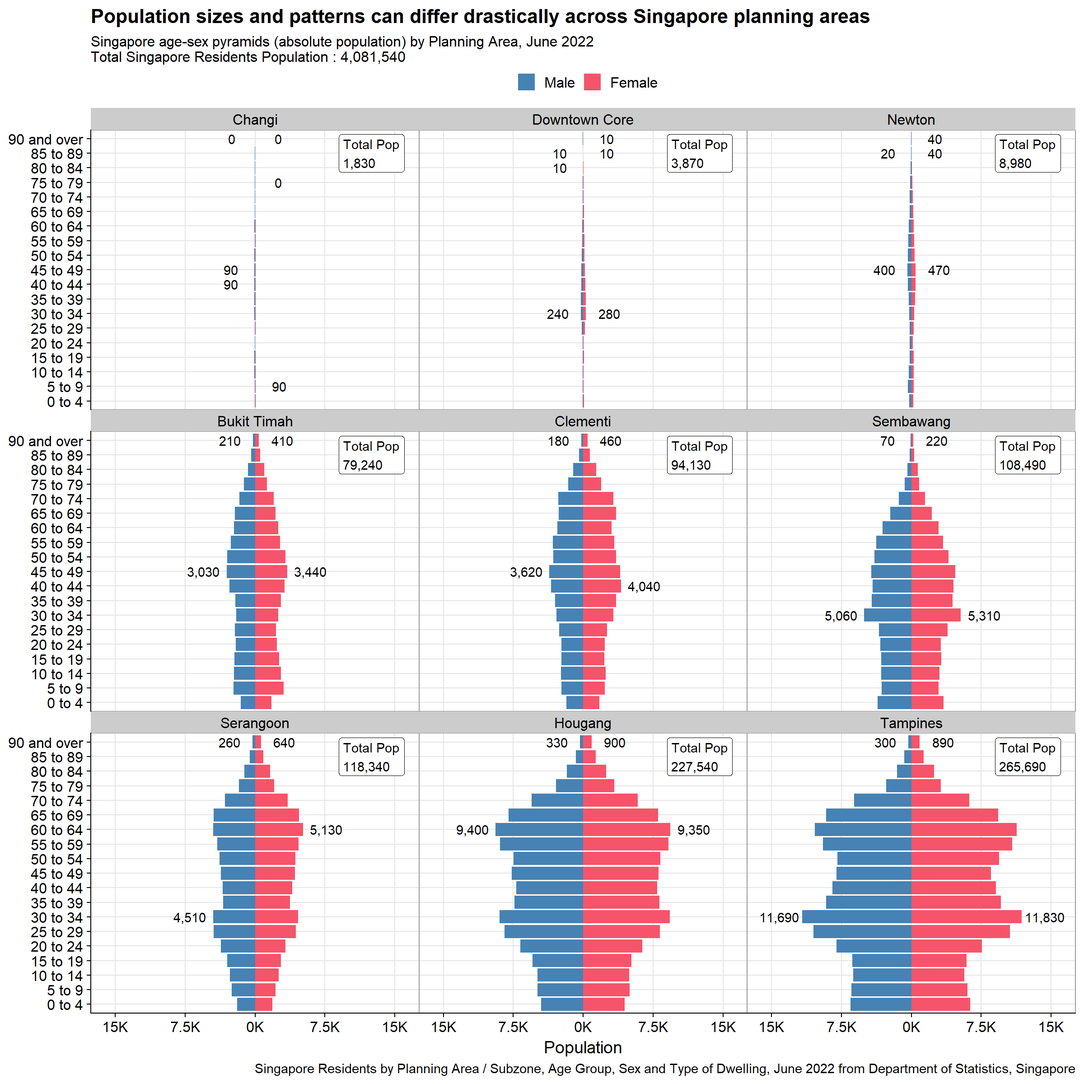
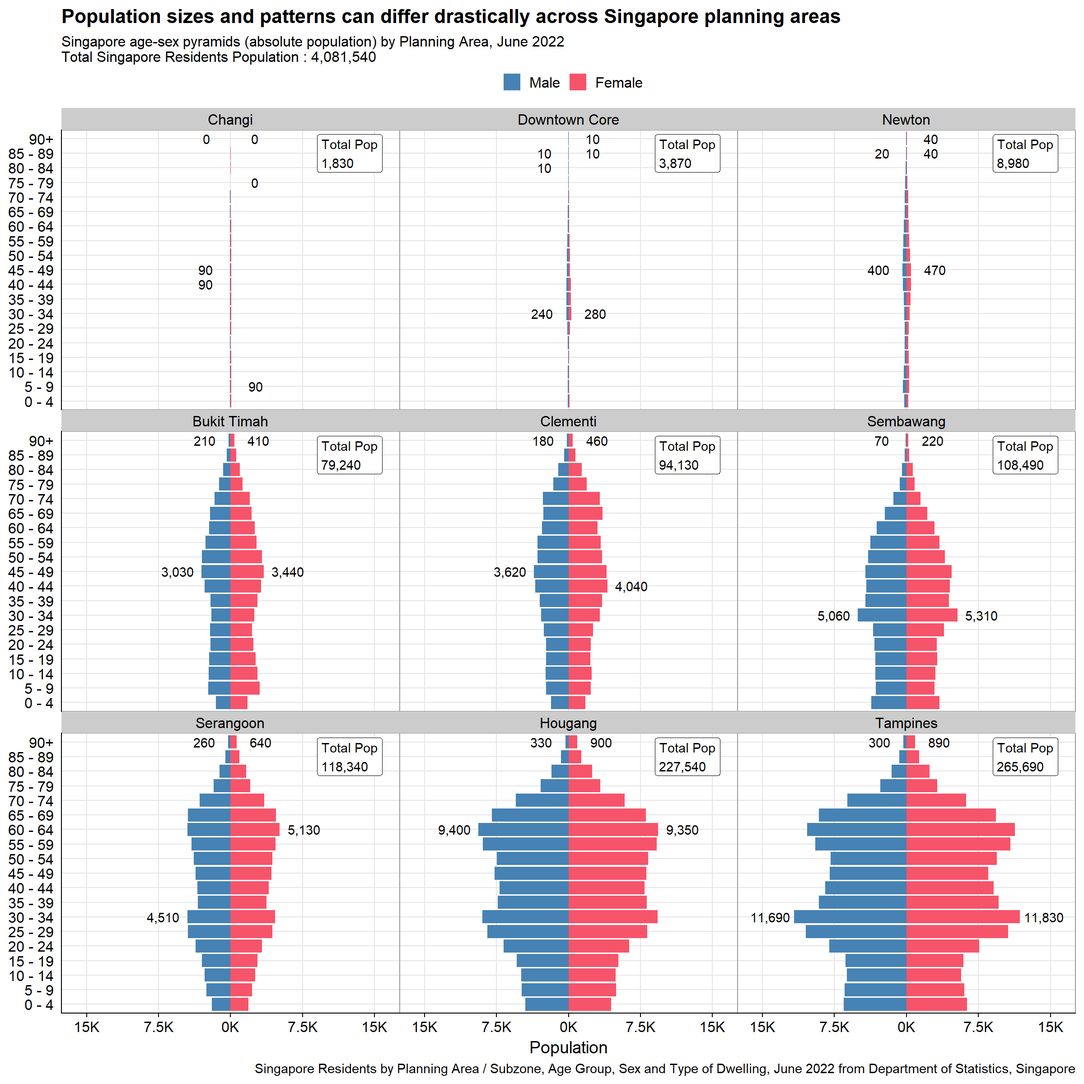
Commit after Take-home Exercise 2 draft2

diff --git a/_site/Take-home_Ex/Take-home_Ex02/Take-home_Ex02.html b/_site/Take-home_Ex/Take-home_Ex02/Take-home_Ex02.html
@@ -300,7 +300,7 @@ code span.wa { color: #60a0b0; font-weight: bold; font-style: italic; } /* Warni
 <li><p>Clear planning area labels for each population pyramid.</p></li>
 <li><p>Uniform white background gives a clean look.</p></li>
 <li><p>Soft grid lines are not distracting.</p></li>
-<li><p>Y-axis labels are not very easy to read due to presence of “_”.</p></li>
+<li><p>Y-axis labels are not very easy to read due to presence of ‘_’.</p></li>
 </ul>
 <section id="section-2" class="level6">
 <h6 class="anchored" data-anchor-id="section-2"></h6>
@@ -349,7 +349,8 @@ code span.wa { color: #60a0b0; font-weight: bold; font-style: italic; } /* Warni
 <ul>
 <li><p>Group the original data by planning area (PA), age group (AG), and gender (Sex) using <code>dplyr::group_by</code> and <code>dplyr::summarise</code>, deriving new variable called <code>sum_pop</code>, which is the sum of population grouped by the three variables mentioned.</p></li>
 <li><p>Convert Males population to negative to reverse the bar chart axis using <code>dplyr::mutate</code> and <code>ifelse</code>.</p></li>
-<li><p>Derive variables <code>min_pop</code> and <code>max_pop</code> to determine the min and max male &amp; female population values for each planning area (PA) across age group (AG). This will be used in conjunction with <code>signal</code> below for data labeling purpose.</p></li>
+<li><p>Eliminate the ‘_’, ‘to’, ‘and over’ in age group (<code>AG</code>) using <code>dplyr::mutate</code> and <code>gsub</code>.</p></li>
+<li><p>Derive variables <code>min_pop</code> and <code>max_pop</code> to determine the min and max male &amp; female population values for each planning area (<code>PA</code>) across age group (<code>AG</code>). This will be used in conjunction with <code>signal</code> below for data labeling purpose.</p></li>
 <li><p>Derive new variables to calculate population proportion : sum of population by PA (<code>sum_pop_pa</code>), sum of population by age and sex (<code>sum_pop_total</code>), sum of total Singapore population (<code>sum_pop_total_sg</code>)</p></li>
 <li><p>Using <code>left_join</code> to create new clean tibble called <code>sgpop_clean</code> which will be used as final dataset for plotting</p></li>
 </ul>
@@ -359,40 +360,42 @@ code span.wa { color: #60a0b0; font-weight: bold; font-style: italic; } /* Warni
 <div class="sourceCode cell-code" id="cb2"><pre class="sourceCode r code-with-copy"><code class="sourceCode r"><span id="cb2-1"><a href="#cb2-1" aria-hidden="true" tabindex="-1"></a><span class="co">#Data Cleaning</span></span>
 <span id="cb2-2"><a href="#cb2-2" aria-hidden="true" tabindex="-1"></a><span class="co">#sgpop_group groups total population by PA, AG, and Sex to create base data for population pyramid</span></span>
 <span id="cb2-3"><a href="#cb2-3" aria-hidden="true" tabindex="-1"></a>sgpop_group <span class="ot">&lt;-</span> sgpop <span class="sc">|&gt;</span> </span>
-<span id="cb2-4"><a href="#cb2-4" aria-hidden="true" tabindex="-1"></a>  <span class="fu">mutate</span>(<span class="at">AG =</span> <span class="fu">gsub</span>(<span class="st">'_'</span>,<span class="st">' '</span>, AG),</span>
-<span id="cb2-5"><a href="#cb2-5" aria-hidden="true" tabindex="-1"></a>         <span class="at">Pop =</span> <span class="fu">ifelse</span>(Sex <span class="sc">==</span> <span class="st">"Males"</span>, Pop<span class="sc">*</span>(<span class="sc">-</span><span class="dv">1</span>), Pop)) <span class="sc">|&gt;</span></span>
-<span id="cb2-6"><a href="#cb2-6" aria-hidden="true" tabindex="-1"></a>  <span class="fu">group_by</span>(PA, AG, Sex) <span class="sc">|&gt;</span> </span>
-<span id="cb2-7"><a href="#cb2-7" aria-hidden="true" tabindex="-1"></a>  <span class="fu">summarise</span>(<span class="at">sum_pop =</span> <span class="fu">sum</span>(Pop)) </span>
-<span id="cb2-8"><a href="#cb2-8" aria-hidden="true" tabindex="-1"></a></span>
-<span id="cb2-9"><a href="#cb2-9" aria-hidden="true" tabindex="-1"></a><span class="co">#sgpop_max_min creates summary parameters for max, min, and sum by grouping them on PA and Sex. AG is not included since we want to find total population across age group</span></span>
-<span id="cb2-10"><a href="#cb2-10" aria-hidden="true" tabindex="-1"></a>sgpop_max_min <span class="ot">&lt;-</span> sgpop_group <span class="sc">|&gt;</span> </span>
-<span id="cb2-11"><a href="#cb2-11" aria-hidden="true" tabindex="-1"></a>  <span class="fu">group_by</span>(PA, Sex) <span class="sc">|&gt;</span> </span>
-<span id="cb2-12"><a href="#cb2-12" aria-hidden="true" tabindex="-1"></a>  <span class="fu">summarise</span>(<span class="at">max_pop =</span> <span class="fu">max</span>(<span class="fu">abs</span>(sum_pop)),</span>
-<span id="cb2-13"><a href="#cb2-13" aria-hidden="true" tabindex="-1"></a>            <span class="at">min_pop =</span> <span class="fu">min</span>(<span class="fu">abs</span>(sum_pop)))</span>
-<span id="cb2-14"><a href="#cb2-14" aria-hidden="true" tabindex="-1"></a></span>
-<span id="cb2-15"><a href="#cb2-15" aria-hidden="true" tabindex="-1"></a><span class="co">#sgpop_sum sums up the total population by planning area. This will be used to create proportion population per planning area</span></span>
-<span id="cb2-16"><a href="#cb2-16" aria-hidden="true" tabindex="-1"></a>sgpop_sum <span class="ot">&lt;-</span> sgpop_group <span class="sc">|&gt;</span> </span>
-<span id="cb2-17"><a href="#cb2-17" aria-hidden="true" tabindex="-1"></a>  <span class="fu">group_by</span> (PA) <span class="sc">|&gt;</span> </span>
-<span id="cb2-18"><a href="#cb2-18" aria-hidden="true" tabindex="-1"></a>  <span class="fu">summarise</span>(<span class="at">sum_pop_pa =</span> <span class="fu">sum</span>(<span class="fu">abs</span>(sum_pop)))</span>
-<span id="cb2-19"><a href="#cb2-19" aria-hidden="true" tabindex="-1"></a></span>
-<span id="cb2-20"><a href="#cb2-20" aria-hidden="true" tabindex="-1"></a><span class="co">#sgpop_total groups total population by AG and Sex to create base data for total Singapore population (across different PA)</span></span>
-<span id="cb2-21"><a href="#cb2-21" aria-hidden="true" tabindex="-1"></a>sgpop_total <span class="ot">&lt;-</span> sgpop <span class="sc">|&gt;</span></span>
-<span id="cb2-22"><a href="#cb2-22" aria-hidden="true" tabindex="-1"></a>  <span class="fu">mutate</span>(<span class="at">AG =</span> <span class="fu">gsub</span>(<span class="st">'_'</span>,<span class="st">' '</span>, AG),</span>
-<span id="cb2-23"><a href="#cb2-23" aria-hidden="true" tabindex="-1"></a>         <span class="at">Pop =</span> <span class="fu">ifelse</span>(Sex <span class="sc">==</span> <span class="st">"Males"</span>, Pop<span class="sc">*</span>(<span class="sc">-</span><span class="dv">1</span>), Pop)) <span class="sc">|&gt;</span></span>
-<span id="cb2-24"><a href="#cb2-24" aria-hidden="true" tabindex="-1"></a>  <span class="fu">group_by</span>(AG, Sex) <span class="sc">|&gt;</span> </span>
-<span id="cb2-25"><a href="#cb2-25" aria-hidden="true" tabindex="-1"></a>  <span class="fu">summarise</span>(<span class="at">sum_pop_total =</span> <span class="fu">sum</span>(Pop)) </span>
-<span id="cb2-26"><a href="#cb2-26" aria-hidden="true" tabindex="-1"></a></span>
-<span id="cb2-27"><a href="#cb2-27" aria-hidden="true" tabindex="-1"></a><span class="co">#sgpop_total_summ sums total Singapore population. This will be used to create Singapore proportion population for reference</span></span>
-<span id="cb2-28"><a href="#cb2-28" aria-hidden="true" tabindex="-1"></a>sgpop_total_summ <span class="ot">&lt;-</span> sgpop_total <span class="sc">|&gt;</span> </span>
-<span id="cb2-29"><a href="#cb2-29" aria-hidden="true" tabindex="-1"></a>  <span class="fu">group_by</span> (Sex) <span class="sc">|&gt;</span> </span>
-<span id="cb2-30"><a href="#cb2-30" aria-hidden="true" tabindex="-1"></a>  <span class="fu">summarise</span>(<span class="at">sum_pop_total_ag =</span> <span class="fu">sum</span>(sum_pop_total)) <span class="sc">|&gt;</span> </span>
-<span id="cb2-31"><a href="#cb2-31" aria-hidden="true" tabindex="-1"></a>  <span class="fu">mutate</span>(<span class="at">sum_pop_total_sg =</span> <span class="fu">sum</span>(<span class="fu">abs</span>(sum_pop_total_ag)))</span>
-<span id="cb2-32"><a href="#cb2-32" aria-hidden="true" tabindex="-1"></a></span>
-<span id="cb2-33"><a href="#cb2-33" aria-hidden="true" tabindex="-1"></a><span class="co">#joining multiple tibbles to create final sgpop_clean</span></span>
-<span id="cb2-34"><a href="#cb2-34" aria-hidden="true" tabindex="-1"></a>sgpop_draft1 <span class="ot">=</span> sgpop_group <span class="sc">|&gt;</span> <span class="fu">left_join</span>(sgpop_max_min, <span class="at">by =</span> <span class="fu">c</span>(<span class="st">'PA'</span><span class="ot">=</span><span class="st">'PA'</span>, <span class="st">'Sex'</span> <span class="ot">=</span> <span class="st">'Sex'</span>)) </span>
-<span id="cb2-35"><a href="#cb2-35" aria-hidden="true" tabindex="-1"></a>sgpop_draft2 <span class="ot">=</span> sgpop_draft1 <span class="sc">|&gt;</span> <span class="fu">left_join</span>(sgpop_sum, <span class="at">by =</span> <span class="fu">c</span>(<span class="st">'PA'</span> <span class="ot">=</span> <span class="st">'PA'</span>))</span>
-<span id="cb2-36"><a href="#cb2-36" aria-hidden="true" tabindex="-1"></a>sgpop_draft3 <span class="ot">=</span> sgpop_draft2 <span class="sc">|&gt;</span> <span class="fu">left_join</span>(sgpop_total, <span class="at">by =</span> <span class="fu">c</span>(<span class="st">'AG'</span> <span class="ot">=</span> <span class="st">'AG'</span>, <span class="st">'Sex'</span> <span class="ot">=</span> <span class="st">'Sex'</span>))</span>
-<span id="cb2-37"><a href="#cb2-37" aria-hidden="true" tabindex="-1"></a>sgpop_clean <span class="ot">=</span> sgpop_draft3 <span class="sc">|&gt;</span> <span class="fu">left_join</span>(sgpop_total_summ, <span class="at">by =</span> <span class="st">'Sex'</span>)</span></code><button title="Copy to Clipboard" class="code-copy-button"><i class="bi"></i></button></pre></div>
+<span id="cb2-4"><a href="#cb2-4" aria-hidden="true" tabindex="-1"></a>  <span class="fu">mutate</span>(<span class="at">AG =</span> <span class="fu">gsub</span>(<span class="st">'_to_'</span>,<span class="st">' - '</span>, AG),</span>
+<span id="cb2-5"><a href="#cb2-5" aria-hidden="true" tabindex="-1"></a>         <span class="at">AG =</span> <span class="fu">gsub</span>(<span class="st">'_and_over'</span>, <span class="st">'+'</span>, AG),</span>
+<span id="cb2-6"><a href="#cb2-6" aria-hidden="true" tabindex="-1"></a>         <span class="at">Pop =</span> <span class="fu">ifelse</span>(Sex <span class="sc">==</span> <span class="st">"Males"</span>, Pop<span class="sc">*</span>(<span class="sc">-</span><span class="dv">1</span>), Pop)) <span class="sc">|&gt;</span></span>
+<span id="cb2-7"><a href="#cb2-7" aria-hidden="true" tabindex="-1"></a>  <span class="fu">group_by</span>(PA, AG, Sex) <span class="sc">|&gt;</span> </span>
+<span id="cb2-8"><a href="#cb2-8" aria-hidden="true" tabindex="-1"></a>  <span class="fu">summarise</span>(<span class="at">sum_pop =</span> <span class="fu">sum</span>(Pop)) </span>
+<span id="cb2-9"><a href="#cb2-9" aria-hidden="true" tabindex="-1"></a></span>
+<span id="cb2-10"><a href="#cb2-10" aria-hidden="true" tabindex="-1"></a><span class="co">#sgpop_max_min creates summary parameters for max, min, and sum by grouping them on PA and Sex. AG is not included since we want to find total population across age group</span></span>
+<span id="cb2-11"><a href="#cb2-11" aria-hidden="true" tabindex="-1"></a>sgpop_max_min <span class="ot">&lt;-</span> sgpop_group <span class="sc">|&gt;</span> </span>
+<span id="cb2-12"><a href="#cb2-12" aria-hidden="true" tabindex="-1"></a>  <span class="fu">group_by</span>(PA, Sex) <span class="sc">|&gt;</span> </span>
+<span id="cb2-13"><a href="#cb2-13" aria-hidden="true" tabindex="-1"></a>  <span class="fu">summarise</span>(<span class="at">max_pop =</span> <span class="fu">max</span>(<span class="fu">abs</span>(sum_pop)),</span>
+<span id="cb2-14"><a href="#cb2-14" aria-hidden="true" tabindex="-1"></a>            <span class="at">min_pop =</span> <span class="fu">min</span>(<span class="fu">abs</span>(sum_pop)))</span>
+<span id="cb2-15"><a href="#cb2-15" aria-hidden="true" tabindex="-1"></a></span>
+<span id="cb2-16"><a href="#cb2-16" aria-hidden="true" tabindex="-1"></a><span class="co">#sgpop_sum sums up the total population by planning area. This will be used to create proportion population per planning area</span></span>
+<span id="cb2-17"><a href="#cb2-17" aria-hidden="true" tabindex="-1"></a>sgpop_sum <span class="ot">&lt;-</span> sgpop_group <span class="sc">|&gt;</span> </span>
+<span id="cb2-18"><a href="#cb2-18" aria-hidden="true" tabindex="-1"></a>  <span class="fu">group_by</span> (PA) <span class="sc">|&gt;</span> </span>
+<span id="cb2-19"><a href="#cb2-19" aria-hidden="true" tabindex="-1"></a>  <span class="fu">summarise</span>(<span class="at">sum_pop_pa =</span> <span class="fu">sum</span>(<span class="fu">abs</span>(sum_pop)))</span>
+<span id="cb2-20"><a href="#cb2-20" aria-hidden="true" tabindex="-1"></a></span>
+<span id="cb2-21"><a href="#cb2-21" aria-hidden="true" tabindex="-1"></a><span class="co">#sgpop_total groups total population by AG and Sex to create base data for total Singapore population (across different PA)</span></span>
+<span id="cb2-22"><a href="#cb2-22" aria-hidden="true" tabindex="-1"></a>sgpop_total <span class="ot">&lt;-</span> sgpop <span class="sc">|&gt;</span></span>
+<span id="cb2-23"><a href="#cb2-23" aria-hidden="true" tabindex="-1"></a>  <span class="fu">mutate</span>(<span class="at">AG =</span> <span class="fu">gsub</span>(<span class="st">'_to_'</span>,<span class="st">' - '</span>, AG),</span>
+<span id="cb2-24"><a href="#cb2-24" aria-hidden="true" tabindex="-1"></a>         <span class="at">AG =</span> <span class="fu">gsub</span>(<span class="st">'_and_over'</span>, <span class="st">'+'</span>, AG),</span>
+<span id="cb2-25"><a href="#cb2-25" aria-hidden="true" tabindex="-1"></a>         <span class="at">Pop =</span> <span class="fu">ifelse</span>(Sex <span class="sc">==</span> <span class="st">"Males"</span>, Pop<span class="sc">*</span>(<span class="sc">-</span><span class="dv">1</span>), Pop)) <span class="sc">|&gt;</span></span>
+<span id="cb2-26"><a href="#cb2-26" aria-hidden="true" tabindex="-1"></a>  <span class="fu">group_by</span>(AG, Sex) <span class="sc">|&gt;</span> </span>
+<span id="cb2-27"><a href="#cb2-27" aria-hidden="true" tabindex="-1"></a>  <span class="fu">summarise</span>(<span class="at">sum_pop_total =</span> <span class="fu">sum</span>(Pop)) </span>
+<span id="cb2-28"><a href="#cb2-28" aria-hidden="true" tabindex="-1"></a></span>
+<span id="cb2-29"><a href="#cb2-29" aria-hidden="true" tabindex="-1"></a><span class="co">#sgpop_total_summ sums total Singapore population. This will be used to create Singapore proportion population for reference</span></span>
+<span id="cb2-30"><a href="#cb2-30" aria-hidden="true" tabindex="-1"></a>sgpop_total_summ <span class="ot">&lt;-</span> sgpop_total <span class="sc">|&gt;</span> </span>
+<span id="cb2-31"><a href="#cb2-31" aria-hidden="true" tabindex="-1"></a>  <span class="fu">group_by</span> (Sex) <span class="sc">|&gt;</span> </span>
+<span id="cb2-32"><a href="#cb2-32" aria-hidden="true" tabindex="-1"></a>  <span class="fu">summarise</span>(<span class="at">sum_pop_total_ag =</span> <span class="fu">sum</span>(sum_pop_total)) <span class="sc">|&gt;</span> </span>
+<span id="cb2-33"><a href="#cb2-33" aria-hidden="true" tabindex="-1"></a>  <span class="fu">mutate</span>(<span class="at">sum_pop_total_sg =</span> <span class="fu">sum</span>(<span class="fu">abs</span>(sum_pop_total_ag)))</span>
+<span id="cb2-34"><a href="#cb2-34" aria-hidden="true" tabindex="-1"></a></span>
+<span id="cb2-35"><a href="#cb2-35" aria-hidden="true" tabindex="-1"></a><span class="co">#joining multiple tibbles to create final sgpop_clean</span></span>
+<span id="cb2-36"><a href="#cb2-36" aria-hidden="true" tabindex="-1"></a>sgpop_draft1 <span class="ot">=</span> sgpop_group <span class="sc">|&gt;</span> <span class="fu">left_join</span>(sgpop_max_min, <span class="at">by =</span> <span class="fu">c</span>(<span class="st">'PA'</span><span class="ot">=</span><span class="st">'PA'</span>, <span class="st">'Sex'</span> <span class="ot">=</span> <span class="st">'Sex'</span>)) </span>
+<span id="cb2-37"><a href="#cb2-37" aria-hidden="true" tabindex="-1"></a>sgpop_draft2 <span class="ot">=</span> sgpop_draft1 <span class="sc">|&gt;</span> <span class="fu">left_join</span>(sgpop_sum, <span class="at">by =</span> <span class="fu">c</span>(<span class="st">'PA'</span> <span class="ot">=</span> <span class="st">'PA'</span>))</span>
+<span id="cb2-38"><a href="#cb2-38" aria-hidden="true" tabindex="-1"></a>sgpop_draft3 <span class="ot">=</span> sgpop_draft2 <span class="sc">|&gt;</span> <span class="fu">left_join</span>(sgpop_total, <span class="at">by =</span> <span class="fu">c</span>(<span class="st">'AG'</span> <span class="ot">=</span> <span class="st">'AG'</span>, <span class="st">'Sex'</span> <span class="ot">=</span> <span class="st">'Sex'</span>))</span>
+<span id="cb2-39"><a href="#cb2-39" aria-hidden="true" tabindex="-1"></a>sgpop_clean <span class="ot">=</span> sgpop_draft3 <span class="sc">|&gt;</span> <span class="fu">left_join</span>(sgpop_total_summ, <span class="at">by =</span> <span class="st">'Sex'</span>)</span></code><button title="Copy to Clipboard" class="code-copy-button"><i class="bi"></i></button></pre></div>
 </details>
 </div>
 </section>
@@ -424,7 +427,7 @@ code span.wa { color: #60a0b0; font-weight: bold; font-style: italic; } /* Warni
 <span id="cb3-12"><a href="#cb3-12" aria-hidden="true" tabindex="-1"></a></span>
 <span id="cb3-13"><a href="#cb3-13" aria-hidden="true" tabindex="-1"></a><span class="co">#Order factors</span></span>
 <span id="cb3-14"><a href="#cb3-14" aria-hidden="true" tabindex="-1"></a>sgpop_clean<span class="sc">$</span>Sex <span class="ot">&lt;-</span> <span class="fu">fct_relevel</span>(sgpop_clean<span class="sc">$</span>Sex, <span class="st">"Males"</span>)</span>
-<span id="cb3-15"><a href="#cb3-15" aria-hidden="true" tabindex="-1"></a>sgpop_clean<span class="sc">$</span>AG  <span class="ot">&lt;-</span> <span class="fu">fct_relevel</span>(sgpop_clean<span class="sc">$</span>AG, <span class="st">"0 to 4"</span>, <span class="st">"5 to 9"</span>)</span></code><button title="Copy to Clipboard" class="code-copy-button"><i class="bi"></i></button></pre></div>
+<span id="cb3-15"><a href="#cb3-15" aria-hidden="true" tabindex="-1"></a>sgpop_clean<span class="sc">$</span>AG  <span class="ot">&lt;-</span> <span class="fu">fct_relevel</span>(sgpop_clean<span class="sc">$</span>AG, <span class="st">"0 - 4"</span>, <span class="st">"5 - 9"</span>)</span></code><button title="Copy to Clipboard" class="code-copy-button"><i class="bi"></i></button></pre></div>
 </details>
 </div>
 <section id="section-4" class="level6">
@@ -511,14 +514,15 @@ code span.wa { color: #60a0b0; font-weight: bold; font-style: italic; } /* Warni
 <span id="cb4-51"><a href="#cb4-51" aria-hidden="true" tabindex="-1"></a>    cowplot<span class="sc">::</span><span class="fu">theme_cowplot</span>() <span class="sc">+</span></span>
 <span id="cb4-52"><a href="#cb4-52" aria-hidden="true" tabindex="-1"></a>    <span class="fu">theme</span>(<span class="at">axis.title.x =</span> <span class="fu">element_text</span>(<span class="at">vjust =</span> <span class="fl">0.5</span>),</span>
 <span id="cb4-53"><a href="#cb4-53" aria-hidden="true" tabindex="-1"></a>          <span class="at">axis.title.y =</span> <span class="fu">element_blank</span>(),</span>
-<span id="cb4-54"><a href="#cb4-54" aria-hidden="true" tabindex="-1"></a>          <span class="at">panel.grid.major.x =</span> <span class="fu">element_line</span>(<span class="at">color =</span> <span class="st">"grey90"</span>, <span class="at">linetype =</span> <span class="st">"solid"</span>),</span>
-<span id="cb4-55"><a href="#cb4-55" aria-hidden="true" tabindex="-1"></a>          <span class="at">panel.grid.major.y =</span> <span class="fu">element_line</span>(<span class="at">color =</span> <span class="st">"grey90"</span>, <span class="at">linetype =</span> <span class="st">"solid"</span>),</span>
-<span id="cb4-56"><a href="#cb4-56" aria-hidden="true" tabindex="-1"></a>          <span class="at">legend.position =</span> <span class="st">'top'</span>,</span>
-<span id="cb4-57"><a href="#cb4-57" aria-hidden="true" tabindex="-1"></a>          <span class="at">legend.justification =</span> <span class="st">'center'</span>,</span>
-<span id="cb4-58"><a href="#cb4-58" aria-hidden="true" tabindex="-1"></a>          <span class="at">panel.border =</span> <span class="fu">element_rect</span>(<span class="at">color =</span> <span class="st">"grey60"</span>, <span class="at">linetype =</span> <span class="st">"solid"</span>, <span class="at">linewidth =</span> <span class="fl">0.5</span>),</span>
-<span id="cb4-59"><a href="#cb4-59" aria-hidden="true" tabindex="-1"></a>          <span class="at">panel.spacing.x =</span> <span class="fu">unit</span>(<span class="dv">0</span>,<span class="st">"line"</span>),</span>
-<span id="cb4-60"><a href="#cb4-60" aria-hidden="true" tabindex="-1"></a>          <span class="at">panel.spacing.y =</span> <span class="fu">unit</span>(<span class="dv">0</span>,<span class="st">"line"</span>))</span>
-<span id="cb4-61"><a href="#cb4-61" aria-hidden="true" tabindex="-1"></a>}</span></code><button title="Copy to Clipboard" class="code-copy-button"><i class="bi"></i></button></pre></div>
+<span id="cb4-54"><a href="#cb4-54" aria-hidden="true" tabindex="-1"></a>          <span class="at">axis.ticks.y =</span> <span class="fu">element_blank</span>(),</span>
+<span id="cb4-55"><a href="#cb4-55" aria-hidden="true" tabindex="-1"></a>          <span class="at">panel.grid.major.x =</span> <span class="fu">element_line</span>(<span class="at">color =</span> <span class="st">"grey90"</span>, <span class="at">linetype =</span> <span class="st">"solid"</span>),</span>
+<span id="cb4-56"><a href="#cb4-56" aria-hidden="true" tabindex="-1"></a>          <span class="at">panel.grid.major.y =</span> <span class="fu">element_line</span>(<span class="at">color =</span> <span class="st">"grey90"</span>, <span class="at">linetype =</span> <span class="st">"solid"</span>),</span>
+<span id="cb4-57"><a href="#cb4-57" aria-hidden="true" tabindex="-1"></a>          <span class="at">legend.position =</span> <span class="st">'top'</span>,</span>
+<span id="cb4-58"><a href="#cb4-58" aria-hidden="true" tabindex="-1"></a>          <span class="at">legend.justification =</span> <span class="st">'center'</span>,</span>
+<span id="cb4-59"><a href="#cb4-59" aria-hidden="true" tabindex="-1"></a>          <span class="at">panel.border =</span> <span class="fu">element_rect</span>(<span class="at">color =</span> <span class="st">"grey60"</span>, <span class="at">linetype =</span> <span class="st">"solid"</span>, <span class="at">linewidth =</span> <span class="fl">0.5</span>),</span>
+<span id="cb4-60"><a href="#cb4-60" aria-hidden="true" tabindex="-1"></a>          <span class="at">panel.spacing.x =</span> <span class="fu">unit</span>(<span class="dv">0</span>,<span class="st">"line"</span>),</span>
+<span id="cb4-61"><a href="#cb4-61" aria-hidden="true" tabindex="-1"></a>          <span class="at">panel.spacing.y =</span> <span class="fu">unit</span>(<span class="dv">0</span>,<span class="st">"line"</span>))</span>
+<span id="cb4-62"><a href="#cb4-62" aria-hidden="true" tabindex="-1"></a>}</span></code><button title="Copy to Clipboard" class="code-copy-button"><i class="bi"></i></button></pre></div>
 </details>
 </div>
 <ol start="2" type="1">
@@ -528,8 +532,8 @@ code span.wa { color: #60a0b0; font-weight: bold; font-style: italic; } /* Warni
 <details>
 <summary>Show the code</summary>
 <div class="sourceCode cell-code" id="cb5"><pre class="sourceCode r code-with-copy"><code class="sourceCode r"><span id="cb5-1"><a href="#cb5-1" aria-hidden="true" tabindex="-1"></a><span class="co">#Setting the axis range and limits</span></span>
-<span id="cb5-2"><a href="#cb5-2" aria-hidden="true" tabindex="-1"></a>pop_range_breaks_prop <span class="ot">=</span> <span class="fu">seq</span>(<span class="sc">-</span><span class="dv">10</span>,<span class="dv">10</span>,<span class="dv">5</span>)                     </span>
-<span id="cb5-3"><a href="#cb5-3" aria-hidden="true" tabindex="-1"></a>pop_range_limits_prop <span class="ot">=</span> <span class="fu">c</span>(<span class="sc">-</span><span class="fl">10.5</span>, <span class="fl">10.5</span>)                         </span>
+<span id="cb5-2"><a href="#cb5-2" aria-hidden="true" tabindex="-1"></a>pop_range_breaks_prop <span class="ot">=</span> <span class="fu">seq</span>(<span class="sc">-</span><span class="dv">8</span>,<span class="dv">8</span>,<span class="dv">4</span>)                     </span>
+<span id="cb5-3"><a href="#cb5-3" aria-hidden="true" tabindex="-1"></a>pop_range_limits_prop <span class="ot">=</span> <span class="fu">c</span>(<span class="sc">-</span><span class="dv">9</span>, <span class="dv">9</span>)                         </span>
 <span id="cb5-4"><a href="#cb5-4" aria-hidden="true" tabindex="-1"></a></span>
 <span id="cb5-5"><a href="#cb5-5" aria-hidden="true" tabindex="-1"></a><span class="co">#Create function to plot based on population proportion </span></span>
 <span id="cb5-6"><a href="#cb5-6" aria-hidden="true" tabindex="-1"></a>plot_PA_prop <span class="ot">&lt;-</span> <span class="cf">function</span>(planning_area) {</span>
@@ -555,51 +559,54 @@ code span.wa { color: #60a0b0; font-weight: bold; font-style: italic; } /* Warni
 <span id="cb5-26"><a href="#cb5-26" aria-hidden="true" tabindex="-1"></a>      <span class="fu">aes</span>(<span class="at">x =</span> AG,</span>
 <span id="cb5-27"><a href="#cb5-27" aria-hidden="true" tabindex="-1"></a>          <span class="at">y =</span> <span class="sc">-</span>prop_pop_total),</span>
 <span id="cb5-28"><a href="#cb5-28" aria-hidden="true" tabindex="-1"></a>      <span class="at">linetype =</span> <span class="st">"dashed"</span>,</span>
-<span id="cb5-29"><a href="#cb5-29" aria-hidden="true" tabindex="-1"></a>      <span class="at">color =</span><span class="st">"black"</span>) <span class="sc">+</span></span>
-<span id="cb5-30"><a href="#cb5-30" aria-hidden="true" tabindex="-1"></a>    <span class="fu">geom_step</span>(<span class="at">data =</span> sgpop_clean <span class="sc">|&gt;</span> <span class="fu">filter</span>(PA <span class="sc">%in%</span> planning_area <span class="sc">&amp;</span> Sex <span class="sc">==</span> <span class="st">"Females"</span>),</span>
-<span id="cb5-31"><a href="#cb5-31" aria-hidden="true" tabindex="-1"></a>      <span class="fu">aes</span>(<span class="at">x =</span> AG,</span>
-<span id="cb5-32"><a href="#cb5-32" aria-hidden="true" tabindex="-1"></a>          <span class="at">y =</span> prop_pop_total),</span>
-<span id="cb5-33"><a href="#cb5-33" aria-hidden="true" tabindex="-1"></a>      <span class="at">linetype =</span> <span class="st">"dashed"</span>,</span>
-<span id="cb5-34"><a href="#cb5-34" aria-hidden="true" tabindex="-1"></a>      <span class="at">color =</span><span class="st">"black"</span>) <span class="sc">+</span></span>
-<span id="cb5-35"><a href="#cb5-35" aria-hidden="true" tabindex="-1"></a>    </span>
-<span id="cb5-36"><a href="#cb5-36" aria-hidden="true" tabindex="-1"></a>    <span class="fu">coord_flip</span>() <span class="sc">+</span></span>
+<span id="cb5-29"><a href="#cb5-29" aria-hidden="true" tabindex="-1"></a>      <span class="at">linewidth =</span> <span class="fl">0.6</span>,</span>
+<span id="cb5-30"><a href="#cb5-30" aria-hidden="true" tabindex="-1"></a>      <span class="at">color =</span><span class="st">"black"</span>) <span class="sc">+</span></span>
+<span id="cb5-31"><a href="#cb5-31" aria-hidden="true" tabindex="-1"></a>    <span class="fu">geom_step</span>(<span class="at">data =</span> sgpop_clean <span class="sc">|&gt;</span> <span class="fu">filter</span>(PA <span class="sc">%in%</span> planning_area <span class="sc">&amp;</span> Sex <span class="sc">==</span> <span class="st">"Females"</span>),</span>
+<span id="cb5-32"><a href="#cb5-32" aria-hidden="true" tabindex="-1"></a>      <span class="fu">aes</span>(<span class="at">x =</span> AG,</span>
+<span id="cb5-33"><a href="#cb5-33" aria-hidden="true" tabindex="-1"></a>          <span class="at">y =</span> prop_pop_total),</span>
+<span id="cb5-34"><a href="#cb5-34" aria-hidden="true" tabindex="-1"></a>      <span class="at">linetype =</span> <span class="st">"dashed"</span>,</span>
+<span id="cb5-35"><a href="#cb5-35" aria-hidden="true" tabindex="-1"></a>      <span class="at">linewidth =</span> <span class="fl">0.6</span>,</span>
+<span id="cb5-36"><a href="#cb5-36" aria-hidden="true" tabindex="-1"></a>      <span class="at">color =</span><span class="st">"black"</span>) <span class="sc">+</span></span>
 <span id="cb5-37"><a href="#cb5-37" aria-hidden="true" tabindex="-1"></a>    </span>
-<span id="cb5-38"><a href="#cb5-38" aria-hidden="true" tabindex="-1"></a>    <span class="co">#adding legends and customize colors</span></span>
-<span id="cb5-39"><a href="#cb5-39" aria-hidden="true" tabindex="-1"></a>    <span class="fu">scale_fill_manual</span>(<span class="at">values =</span> <span class="fu">c</span>(<span class="st">"steelblue"</span>, <span class="st">"#f6546a"</span>),</span>
-<span id="cb5-40"><a href="#cb5-40" aria-hidden="true" tabindex="-1"></a>                      <span class="at">labels =</span> <span class="fu">c</span>(<span class="st">"%Male"</span>, <span class="st">"%Female"</span>),</span>
-<span id="cb5-41"><a href="#cb5-41" aria-hidden="true" tabindex="-1"></a>                      <span class="at">name =</span> <span class="cn">NULL</span>) <span class="sc">+</span></span>
-<span id="cb5-42"><a href="#cb5-42" aria-hidden="true" tabindex="-1"></a>    </span>
-<span id="cb5-43"><a href="#cb5-43" aria-hidden="true" tabindex="-1"></a>    <span class="co">#scale axis</span></span>
-<span id="cb5-44"><a href="#cb5-44" aria-hidden="true" tabindex="-1"></a>    <span class="fu">scale_y_continuous</span>(<span class="st">"Population Proportion"</span>,</span>
-<span id="cb5-45"><a href="#cb5-45" aria-hidden="true" tabindex="-1"></a>                       <span class="at">limits =</span> pop_range_limits_prop,</span>
-<span id="cb5-46"><a href="#cb5-46" aria-hidden="true" tabindex="-1"></a>                       <span class="at">breaks =</span> pop_range_breaks_prop,</span>
-<span id="cb5-47"><a href="#cb5-47" aria-hidden="true" tabindex="-1"></a>                       <span class="at">labels =</span> <span class="cf">function</span>(x){<span class="fu">paste0</span>(<span class="fu">abs</span>(x),<span class="st">'%'</span>)}) <span class="sc">+</span></span>
-<span id="cb5-48"><a href="#cb5-48" aria-hidden="true" tabindex="-1"></a>    </span>
-<span id="cb5-49"><a href="#cb5-49" aria-hidden="true" tabindex="-1"></a>    <span class="co">#adding title, subtitle, and caption</span></span>
-<span id="cb5-50"><a href="#cb5-50" aria-hidden="true" tabindex="-1"></a>    <span class="fu">labs</span>(<span class="at">title =</span> <span class="st">"Different demographic patterns are revealed when population proportion (%) is used in the pyramid"</span>,</span>
-<span id="cb5-51"><a href="#cb5-51" aria-hidden="true" tabindex="-1"></a>         <span class="at">subtitle =</span> <span class="fu">paste0</span>(<span class="st">"Singapore age-sex pyramids (proportion population) by Planning Area, June 2022</span><span class="sc">\n</span><span class="st">Total Singapore Residents Population : "</span>, <span class="fu">comma</span>(sgpop_clean<span class="sc">$</span>sum_pop_total_sg),<span class="st">"</span><span class="sc">\n</span><span class="st">Reference step chart (dashed line) represents Singapore overall population proportion (%)"</span>),</span>
-<span id="cb5-52"><a href="#cb5-52" aria-hidden="true" tabindex="-1"></a>         <span class="at">caption =</span> <span class="st">"Singapore Residents by Planning Area / Subzone, Age Group, Sex and Type of Dwelling, June 2022 from Department of Statistics, Singapore"</span>) <span class="sc">+</span></span>
-<span id="cb5-53"><a href="#cb5-53" aria-hidden="true" tabindex="-1"></a>    </span>
-<span id="cb5-54"><a href="#cb5-54" aria-hidden="true" tabindex="-1"></a>    <span class="co">#create trellis plot and PA population label</span></span>
-<span id="cb5-55"><a href="#cb5-55" aria-hidden="true" tabindex="-1"></a>    <span class="fu">facet_wrap</span>(<span class="sc">~</span>PA) <span class="sc">+</span></span>
-<span id="cb5-56"><a href="#cb5-56" aria-hidden="true" tabindex="-1"></a>    <span class="fu">geom_label</span>(</span>
-<span id="cb5-57"><a href="#cb5-57" aria-hidden="true" tabindex="-1"></a>      <span class="at">x =</span> <span class="dv">18</span>,</span>
-<span id="cb5-58"><a href="#cb5-58" aria-hidden="true" tabindex="-1"></a>      <span class="at">y =</span> <span class="dv">6</span>,</span>
-<span id="cb5-59"><a href="#cb5-59" aria-hidden="true" tabindex="-1"></a>      <span class="fu">aes</span>(<span class="at">label =</span> <span class="fu">paste</span>(<span class="st">"Total Pop"</span>, <span class="fu">comma</span>(sum_pop_pa), <span class="at">sep =</span> <span class="st">"</span><span class="sc">\n</span><span class="st">"</span>)),</span>
-<span id="cb5-60"><a href="#cb5-60" aria-hidden="true" tabindex="-1"></a>      <span class="at">hjust =</span> <span class="st">"left"</span>) <span class="sc">+</span></span>
-<span id="cb5-61"><a href="#cb5-61" aria-hidden="true" tabindex="-1"></a>        </span>
-<span id="cb5-62"><a href="#cb5-62" aria-hidden="true" tabindex="-1"></a>    <span class="co">#setting theme and aesthetics</span></span>
-<span id="cb5-63"><a href="#cb5-63" aria-hidden="true" tabindex="-1"></a>    cowplot<span class="sc">::</span><span class="fu">theme_cowplot</span>() <span class="sc">+</span></span>
-<span id="cb5-64"><a href="#cb5-64" aria-hidden="true" tabindex="-1"></a>    <span class="fu">theme</span>(<span class="at">axis.title.x =</span> <span class="fu">element_text</span>(<span class="at">vjust =</span> <span class="fl">0.5</span>),</span>
-<span id="cb5-65"><a href="#cb5-65" aria-hidden="true" tabindex="-1"></a>          <span class="at">axis.title.y =</span> <span class="fu">element_blank</span>(),</span>
-<span id="cb5-66"><a href="#cb5-66" aria-hidden="true" tabindex="-1"></a>          <span class="at">panel.grid.major.x =</span> <span class="fu">element_line</span>(<span class="at">color =</span> <span class="st">"grey90"</span>, <span class="at">linetype =</span> <span class="st">"solid"</span>),</span>
-<span id="cb5-67"><a href="#cb5-67" aria-hidden="true" tabindex="-1"></a>          <span class="at">panel.grid.major.y =</span> <span class="fu">element_line</span>(<span class="at">color =</span> <span class="st">"grey90"</span>, <span class="at">linetype =</span> <span class="st">"solid"</span>),</span>
-<span id="cb5-68"><a href="#cb5-68" aria-hidden="true" tabindex="-1"></a>          <span class="at">legend.position =</span> <span class="st">'top'</span>,</span>
-<span id="cb5-69"><a href="#cb5-69" aria-hidden="true" tabindex="-1"></a>          <span class="at">legend.justification =</span> <span class="st">'center'</span>,</span>
-<span id="cb5-70"><a href="#cb5-70" aria-hidden="true" tabindex="-1"></a>          <span class="at">panel.border =</span> <span class="fu">element_rect</span>(<span class="at">color =</span> <span class="st">"grey60"</span>, <span class="at">linetype =</span> <span class="st">"solid"</span>, <span class="at">linewidth =</span> <span class="fl">0.5</span>),</span>
-<span id="cb5-71"><a href="#cb5-71" aria-hidden="true" tabindex="-1"></a>          <span class="at">panel.spacing.x =</span> <span class="fu">unit</span>(<span class="dv">0</span>,<span class="st">"line"</span>),</span>
-<span id="cb5-72"><a href="#cb5-72" aria-hidden="true" tabindex="-1"></a>          <span class="at">panel.spacing.y =</span> <span class="fu">unit</span>(<span class="dv">0</span>,<span class="st">"line"</span>)) </span>
-<span id="cb5-73"><a href="#cb5-73" aria-hidden="true" tabindex="-1"></a>}</span></code><button title="Copy to Clipboard" class="code-copy-button"><i class="bi"></i></button></pre></div>
+<span id="cb5-38"><a href="#cb5-38" aria-hidden="true" tabindex="-1"></a>    <span class="fu">coord_flip</span>() <span class="sc">+</span></span>
+<span id="cb5-39"><a href="#cb5-39" aria-hidden="true" tabindex="-1"></a>    </span>
+<span id="cb5-40"><a href="#cb5-40" aria-hidden="true" tabindex="-1"></a>    <span class="co">#adding legends and customize colors</span></span>
+<span id="cb5-41"><a href="#cb5-41" aria-hidden="true" tabindex="-1"></a>    <span class="fu">scale_fill_manual</span>(<span class="at">values =</span> <span class="fu">c</span>(<span class="st">"steelblue"</span>, <span class="st">"#f6546a"</span>),</span>
+<span id="cb5-42"><a href="#cb5-42" aria-hidden="true" tabindex="-1"></a>                      <span class="at">labels =</span> <span class="fu">c</span>(<span class="st">"%Male"</span>, <span class="st">"%Female"</span>),</span>
+<span id="cb5-43"><a href="#cb5-43" aria-hidden="true" tabindex="-1"></a>                      <span class="at">name =</span> <span class="cn">NULL</span>) <span class="sc">+</span></span>
+<span id="cb5-44"><a href="#cb5-44" aria-hidden="true" tabindex="-1"></a>    </span>
+<span id="cb5-45"><a href="#cb5-45" aria-hidden="true" tabindex="-1"></a>    <span class="co">#scale axis</span></span>
+<span id="cb5-46"><a href="#cb5-46" aria-hidden="true" tabindex="-1"></a>    <span class="fu">scale_y_continuous</span>(<span class="st">"Population Proportion"</span>,</span>
+<span id="cb5-47"><a href="#cb5-47" aria-hidden="true" tabindex="-1"></a>                       <span class="at">limits =</span> pop_range_limits_prop,</span>
+<span id="cb5-48"><a href="#cb5-48" aria-hidden="true" tabindex="-1"></a>                       <span class="at">breaks =</span> pop_range_breaks_prop,</span>
+<span id="cb5-49"><a href="#cb5-49" aria-hidden="true" tabindex="-1"></a>                       <span class="at">labels =</span> <span class="cf">function</span>(x){<span class="fu">paste0</span>(<span class="fu">abs</span>(x),<span class="st">'%'</span>)}) <span class="sc">+</span></span>
+<span id="cb5-50"><a href="#cb5-50" aria-hidden="true" tabindex="-1"></a>    </span>
+<span id="cb5-51"><a href="#cb5-51" aria-hidden="true" tabindex="-1"></a>    <span class="co">#adding title, subtitle, and caption</span></span>
+<span id="cb5-52"><a href="#cb5-52" aria-hidden="true" tabindex="-1"></a>    <span class="fu">labs</span>(<span class="at">title =</span> <span class="st">"Different demographic patterns are revealed when population proportion (%) is used in the pyramid"</span>,</span>
+<span id="cb5-53"><a href="#cb5-53" aria-hidden="true" tabindex="-1"></a>         <span class="at">subtitle =</span> <span class="fu">paste0</span>(<span class="st">"Singapore age-sex pyramids (proportion population) by Planning Area, June 2022</span><span class="sc">\n</span><span class="st">Total Singapore Residents Population : "</span>, <span class="fu">comma</span>(sgpop_clean<span class="sc">$</span>sum_pop_total_sg),<span class="st">"</span><span class="sc">\n</span><span class="st">Reference step chart (dashed line) represents Singapore overall population proportion (%)"</span>),</span>
+<span id="cb5-54"><a href="#cb5-54" aria-hidden="true" tabindex="-1"></a>         <span class="at">caption =</span> <span class="st">"Singapore Residents by Planning Area / Subzone, Age Group, Sex and Type of Dwelling, June 2022 from Department of Statistics, Singapore"</span>) <span class="sc">+</span></span>
+<span id="cb5-55"><a href="#cb5-55" aria-hidden="true" tabindex="-1"></a>    </span>
+<span id="cb5-56"><a href="#cb5-56" aria-hidden="true" tabindex="-1"></a>    <span class="co">#create trellis plot and PA population label</span></span>
+<span id="cb5-57"><a href="#cb5-57" aria-hidden="true" tabindex="-1"></a>    <span class="fu">facet_wrap</span>(<span class="sc">~</span>PA) <span class="sc">+</span></span>
+<span id="cb5-58"><a href="#cb5-58" aria-hidden="true" tabindex="-1"></a>    <span class="fu">geom_label</span>(</span>
+<span id="cb5-59"><a href="#cb5-59" aria-hidden="true" tabindex="-1"></a>      <span class="at">x =</span> <span class="dv">18</span>,</span>
+<span id="cb5-60"><a href="#cb5-60" aria-hidden="true" tabindex="-1"></a>      <span class="at">y =</span> <span class="dv">5</span>,</span>
+<span id="cb5-61"><a href="#cb5-61" aria-hidden="true" tabindex="-1"></a>      <span class="fu">aes</span>(<span class="at">label =</span> <span class="fu">paste</span>(<span class="st">"Total Pop"</span>, <span class="fu">comma</span>(sum_pop_pa), <span class="at">sep =</span> <span class="st">"</span><span class="sc">\n</span><span class="st">"</span>)),</span>
+<span id="cb5-62"><a href="#cb5-62" aria-hidden="true" tabindex="-1"></a>      <span class="at">hjust =</span> <span class="st">"left"</span>) <span class="sc">+</span></span>
+<span id="cb5-63"><a href="#cb5-63" aria-hidden="true" tabindex="-1"></a>        </span>
+<span id="cb5-64"><a href="#cb5-64" aria-hidden="true" tabindex="-1"></a>    <span class="co">#setting theme and aesthetics</span></span>
+<span id="cb5-65"><a href="#cb5-65" aria-hidden="true" tabindex="-1"></a>    cowplot<span class="sc">::</span><span class="fu">theme_cowplot</span>() <span class="sc">+</span></span>
+<span id="cb5-66"><a href="#cb5-66" aria-hidden="true" tabindex="-1"></a>    <span class="fu">theme</span>(<span class="at">axis.title.x =</span> <span class="fu">element_text</span>(<span class="at">vjust =</span> <span class="fl">0.5</span>),</span>
+<span id="cb5-67"><a href="#cb5-67" aria-hidden="true" tabindex="-1"></a>          <span class="at">axis.title.y =</span> <span class="fu">element_blank</span>(),</span>
+<span id="cb5-68"><a href="#cb5-68" aria-hidden="true" tabindex="-1"></a>          <span class="at">axis.ticks.y =</span> <span class="fu">element_blank</span>(),</span>
+<span id="cb5-69"><a href="#cb5-69" aria-hidden="true" tabindex="-1"></a>          <span class="at">panel.grid.major.x =</span> <span class="fu">element_line</span>(<span class="at">color =</span> <span class="st">"grey90"</span>, <span class="at">linetype =</span> <span class="st">"solid"</span>),</span>
+<span id="cb5-70"><a href="#cb5-70" aria-hidden="true" tabindex="-1"></a>          <span class="at">panel.grid.major.y =</span> <span class="fu">element_line</span>(<span class="at">color =</span> <span class="st">"grey90"</span>, <span class="at">linetype =</span> <span class="st">"solid"</span>),</span>
+<span id="cb5-71"><a href="#cb5-71" aria-hidden="true" tabindex="-1"></a>          <span class="at">legend.position =</span> <span class="st">'top'</span>,</span>
+<span id="cb5-72"><a href="#cb5-72" aria-hidden="true" tabindex="-1"></a>          <span class="at">legend.justification =</span> <span class="st">'center'</span>,</span>
+<span id="cb5-73"><a href="#cb5-73" aria-hidden="true" tabindex="-1"></a>          <span class="at">panel.border =</span> <span class="fu">element_rect</span>(<span class="at">color =</span> <span class="st">"grey60"</span>, <span class="at">linetype =</span> <span class="st">"solid"</span>, <span class="at">linewidth =</span> <span class="fl">0.5</span>),</span>
+<span id="cb5-74"><a href="#cb5-74" aria-hidden="true" tabindex="-1"></a>          <span class="at">panel.spacing.x =</span> <span class="fu">unit</span>(<span class="dv">0</span>,<span class="st">"line"</span>),</span>
+<span id="cb5-75"><a href="#cb5-75" aria-hidden="true" tabindex="-1"></a>          <span class="at">panel.spacing.y =</span> <span class="fu">unit</span>(<span class="dv">0</span>,<span class="st">"line"</span>)) </span>
+<span id="cb5-76"><a href="#cb5-76" aria-hidden="true" tabindex="-1"></a>}</span></code><button title="Copy to Clipboard" class="code-copy-button"><i class="bi"></i></button></pre></div>
 </details>
 </div>
 <section id="section-5" class="level6">
@@ -650,7 +657,9 @@ code span.wa { color: #60a0b0; font-weight: bold; font-style: italic; } /* Warni
 <h4 class="anchored" data-anchor-id="aesthetics-improvements"><u>Aesthetics Improvements</u></h4>
 <ul>
 <li><p>Soft solid grid lines are not distracting.</p></li>
-<li><p>Reference chart is in step chart to mimic the shape of population pyramids. It is also dashed to better distinguish from the grid lines</p></li>
+<li><p>Reference chart is in step chart to mimic the shape of population pyramids. It is also dashed to better distinguish from the grid lines.</p></li>
+<li><p>Tick-marks for y-axis (age group) are removed as they are superfluous for categorical variables.</p></li>
+<li><p>The y-axis label “Age Group” is removed as the subtitle already describes it as age-sex pyramids.</p></li>
 </ul>
 <section id="section-6" class="level6">
 <h6 class="anchored" data-anchor-id="section-6"></h6>
